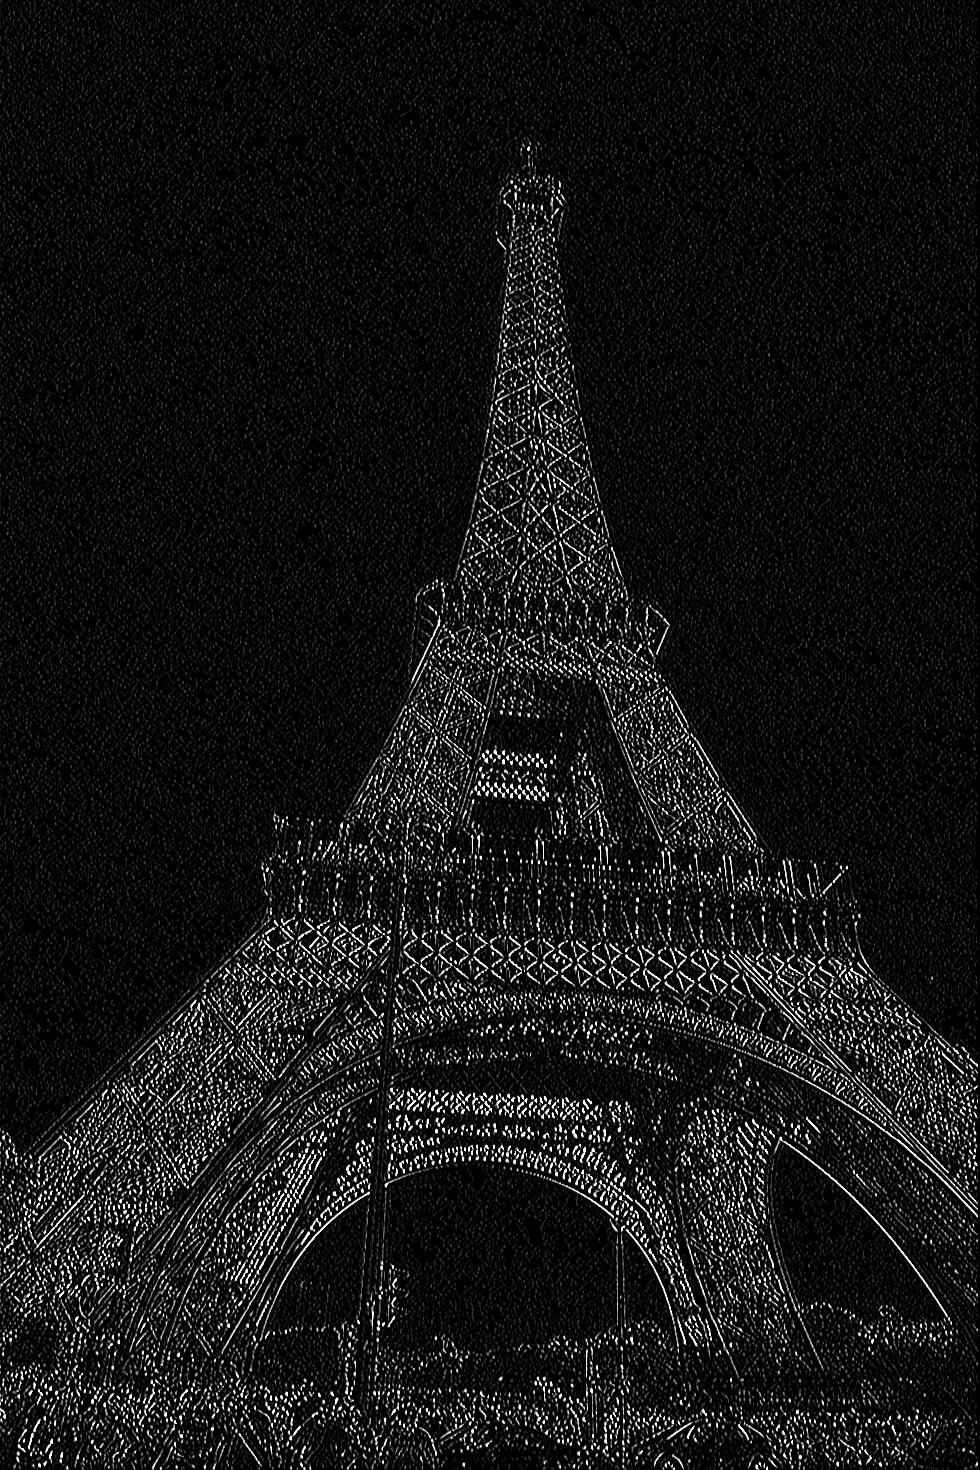
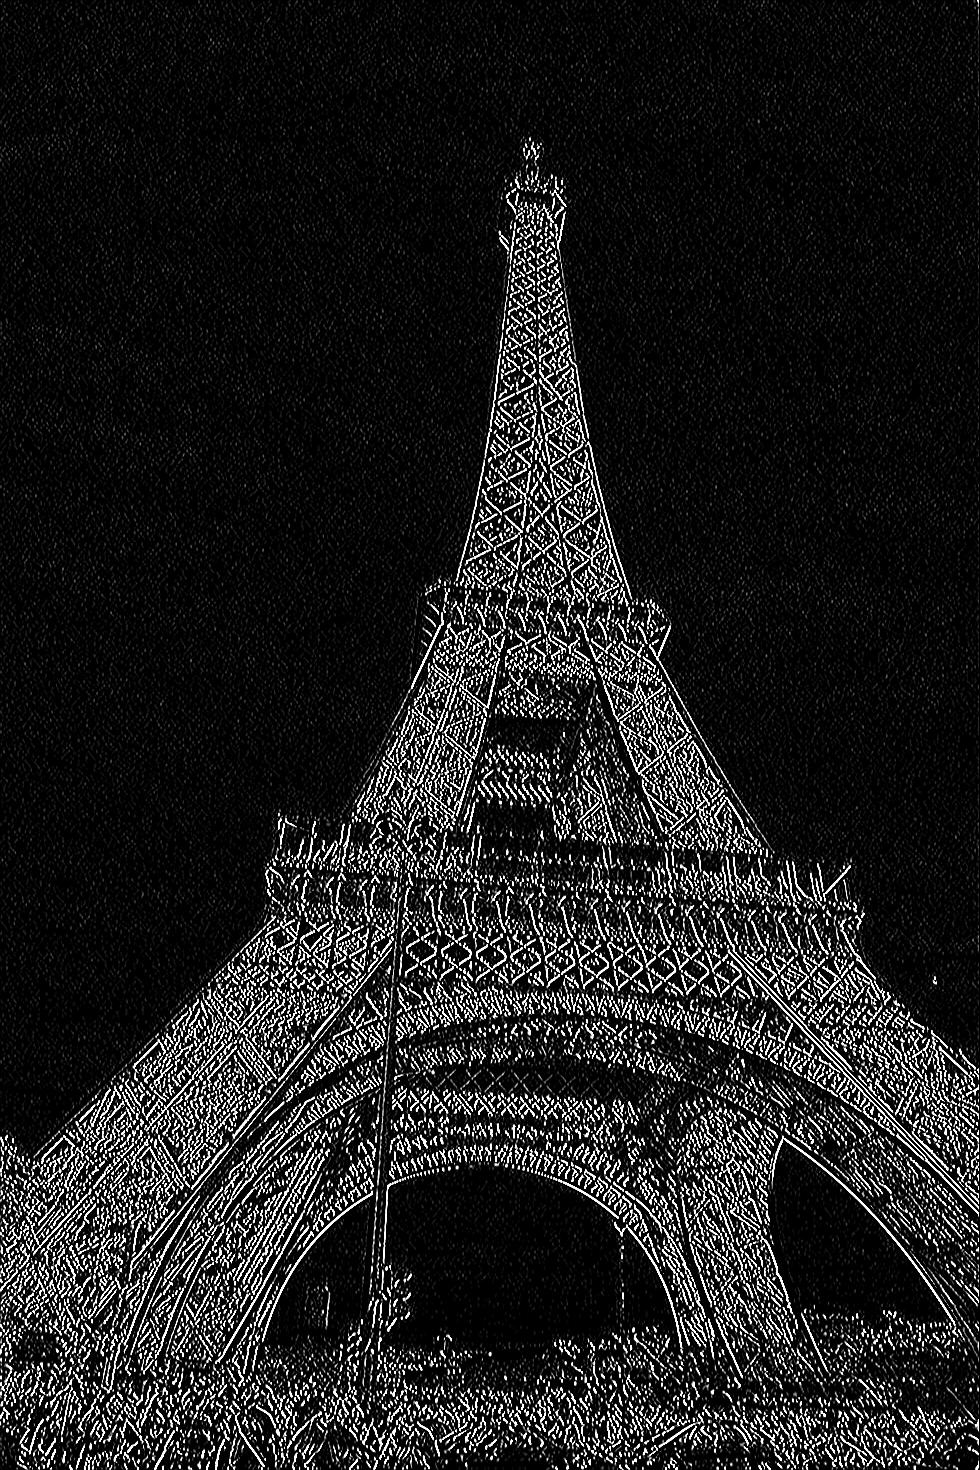
Correcion Tarea 1, Requerimentos según PDF

diff --git a/Lab_1/ventana.py b/Lab_1/ventana.py
@@ -1,0 +1,139 @@
+from Tkinter import *
+from PIL import Image, ImageTk
+from math import floor
+
+def ventana():
+    root = Tk()
+    root.title('Filtros')
+    frame = Frame()
+    frame.pack(padx=5,pady=5)
+    poner_imagen(obtener_original(path_imagen_original))
+    b1 = Button(text='Original', command = boton_original).pack(in_=frame, side=LEFT)
+    b2 = Button(text='Grises', command = boton_grises).pack(in_=frame, side=LEFT)
+    b3 = Button(text='Promedio', command = boton_promedio).pack(in_=frame, side=LEFT)
+    b4 = Button(text='Diferencia').pack(in_=frame, side=LEFT)
+    b5 = Button(text='Gaussian').pack(in_=frame, side=LEFT)
+    b6 = Button(text='Umbral', command = boton_umbral).pack(in_=frame, side=LEFT)
+    root.mainloop()
+
+def poner_imagen(image):
+    photo = ImageTk.PhotoImage(image)
+    global label
+    label = Label(image=photo)
+    label.imagen = photo
+    label.pack()
+
+def cambiar_agrises(path_original):
+    imagen = Image.open(path_imagen_original).convert("RGB")
+    pixeles = imagen.load()
+    x, y = imagen.size
+
+    imagen_nueva = Image.new("RGB", (x, y))
+
+    colores = []
+    for a in range(x):
+        for b in range(y):
+            pixel_color = pixeles[a, b]
+            promedio = sum(pixel_color)/3
+            tupla_promedio = (promedio, promedio, promedio)
+            colores.append(tupla_promedio)
+            imagen_nueva.putpixel((a, b), tupla_promedio)
+
+    return imagen_nueva
+
+def cambiar_promedio(imagen):
+    pixeles = imagen.load()
+    x, y = imagen.size
+    imagen_nueva_prom = Image.new("RGB", (x, y))
+
+    colores = []
+    for a in range(x):
+        for b in range(y):
+            pixel_color = pixeles[a, b]
+            veces = 5
+            suma = 0
+            promedio = 0
+
+            try:
+                pixel_norte = pixeles[a-1,b]
+            except IndexError:
+                pixel_norte = (0, 0, 0)
+                veces = veces - 1
+            try:
+                pixel_sur = pixeles[a+1, b]
+            except IndexError:
+                pixel_sur = (0, 0, 0)
+                veces = veces - 1
+            try:
+                pixel_este = pixeles[a, b+1]
+            except IndexError:
+                pixel_este = (0, 0, 0)
+                veces = veces - 1
+            try:
+                pixel_oeste = pixeles[a, b-1]
+            except IndexError:
+                pixel_oeste = (0, 0, 0)
+                veces = veces - 1
+
+            Rojos_suma = pixel_norte[0] + pixel_sur[0] + pixel_este[0] + pixel_oeste[0] + pixel_color[0]
+            Verdes_suma = pixel_norte[1]+ pixel_sur[1] + pixel_este[1] + pixel_oeste[1] + pixel_color[1]
+            Azul_suma = pixel_norte[2]+ pixel_sur[2] + pixel_este[2] + pixel_oeste[2] + pixel_color[2]
+            
+            Rojo_prom = Rojos_suma/veces
+            Verdes_prom = Verdes_suma/veces
+            Azul_prom = Azul_suma/veces
+
+            tupla_promedio = (Rojo_prom, Verdes_prom, Azul_prom)
+            colores.append(tupla_promedio)
+            imagen_nueva_prom.putpixel((a, b), tupla_promedio)
+
+    return imagen_nueva_prom
+
+def cambiar_umbral(imagen, umbral_valor):
+    pixeles = imagen.load()
+    x, y = imagen.size
+    imagen_nueva = Image.new("RGB", (x, y))
+    
+    for a in range(x):
+        for b in range(y):
+            pixel_color = pixeles[a, b]
+            valor_canal = float(pixel_color[0])
+            color_nor = valor_canal/255.0
+            if(color_nor>=umbral_valor):
+                poner_pixel = 255
+            else:
+                poner_pixel = 0
+            tupla_pixel = (poner_pixel, poner_pixel, poner_pixel)
+            imagen_nueva.putpixel((a, b), tupla_pixel)
+
+    return imagen_nueva
+
+def obtener_original(path_imagen_original):
+    imagen = Image.open(path_imagen_original)
+    return imagen
+
+def boton_grises():
+    label.destroy()
+    imagen_grises = cambiar_agrises(path_imagen_original)
+    poner_imagen(imagen_grises)
+
+def boton_original():
+    label.destroy()
+    imagen_original = obtener_original(path_imagen_original)
+    poner_imagen(imagen_original)
+
+def boton_promedio():
+    label.destroy()
+    imagen_grises = cambiar_agrises(path_imagen_original)
+    imagen_prom = cambiar_promedio(imagen_grises.convert("RGB"))
+    poner_imagen(imagen_prom)
+
+def boton_umbral():
+    label.destroy()
+    umbral_valor = 0.8
+    imagen_grises = cambiar_agrises(path_imagen_original)
+    imagen_umb = cambiar_umbral(imagen_grises.convert("RGB"), umbral_valor)
+    poner_imagen(imagen_umb)
+    
+path_imagen_original = "paris.gif"
+ventana()

diff --git a/Lab_2/sal_pimienta.py b/Lab_2/sal_pimienta.py
@@ -6,13 +6,14 @@ import numpy
 
 def ventana():
     root = Tk()
-    root.title('Bordes')
+    root.title('Filtros')
     frame = Frame()
     frame.pack(padx=5,pady=5)
     poner_imagen(obtener_original(path_imagen_original))
     b1 = Button(text='Original', command = boton_original).pack(in_=frame, side=LEFT)
-    b2 = Button(text='Detectar bordes', command = boton_bordes).pack(in_=frame, side=LEFT)
-    b1 = Button(text='Prueba tiempo', command = boton_prueba).pack(in_=frame, side=LEFT)
+    b2 = Button(text='S&P', command = boton_bordes).pack(in_=frame, side=LEFT)
+    b3 = Button(text='Quitar S&P', command = boton_bordes).pack(in_=frame, side=LEFT)
+    b4 = Button(text='Bordes', command = boton_bordes).pack(in_=frame, side=LEFT)
     root.mainloop()
 
 def poner_imagen(image):
@@ -222,49 +223,32 @@ def obtener_original(path_imagen_original):
 def boton_bordes():
     inicio = time.time()
     label.destroy()
-    
-    #A grises
     imagen_grises = cambiar_agrises(path_imagen_original)
     imagen_grises.save("paso_1.jpg")
-    
-    #Aplico mascara Sobel a 0 grados
-    h = numpy.array([[-1,0,1],[-2,0,2],[-1,0,1]])
-    imagen_con = convolucion(imagen_grises, h)
-    imagen_con.save("paso_2.jpg")
-    
-    #Aplico mascara Sobel a 45 grados
-    h = numpy.array([[1,2,1],[0,0,0],[-1,-2,-1]])
-    imagen_con2 = convolucion(imagen_con, h)
-    imagen_con2.save("paso_3.jpg")
-    
-    #Aplico gradiente horizontal
+    imagen_prom1 = cambiar_promedio(imagen_grises.convert("RGB"))
+    imagen_prom1.save("paso_2.jpg")
+    imagen_prom2 = cambiar_promedio(imagen_prom1.convert("RGB"))
+    imagen_prom2.save("paso_3.jpg")
+    imagen_prom = diferencia(imagen_prom2.convert("RGB"))
+    imagen_prom.save("paso_4.jpg")
+    h = numpy.array([[-3,-3,5],[-3,0,5],[-3,-3,5]])
+    imagen_con = convolucion(imagen_prom, h)
+    imagen_con.save("paso_5.jpg")
     h_hori = numpy.array([[-1, -2, -1],[0, 0, 0], [1, 2, 1]])
+    imagen_con2 = convolucion(imagen_con, h_hori)
     imagen_con3 = convolucion(imagen_con2, h_hori)
-    imagen_con3.save("paso_4.jpg")
-    
-    #Aplico gradiente vertical
+    imagen_con3.save("paso_6.jpg")
     h_verti = numpy.array([[-1, 0, 1],[-2, 0, 2],[-1, 0, 1]])
     imagen_con4 = convolucion(imagen_con3, h_verti)
-    imagen_con4.save("paso_5.jpg")
-    
-    #Normalizo la imagen
-    imagen_nor = normalizacion(imagen_con3)
-    imagen_nor.save("paso_6.jpg")
-    
-    #Binarizo (umbral 0.5)
+    imagen_con4.save("paso_7.jpg")
+    imagen_nor = normalizacion(imagen_con4)
+    imagen_nor.save("paso_8.jpg")
     umbral_valor = 0.5
     imagen_bin = cambiar_umbral(imagen_nor.convert("RGB"), umbral_valor)
-    imagen_bin.save("paso_7.jpg")
-    
-    #Hace promedio
+    imagen_bin.save("paso_9.jpg")
     imagen_final1 = cambiar_promedio(imagen_bin.convert("RGB"))
-    imagen_final2 = cambiar_promedio(imagen_final1.convert("RGB"))
-    imagen_final2.save("paso_8.jpg")
-    
-    #Pone en ventana
-    poner_imagen(imagen_final2)
-    
-    #Tiempo
+    imagen_final1.save("paso_10.jpg")
+    poner_imagen(imagen_final1)
     fin = time.time()
     tiempo = fin - inicio
     print "Tiempo que trascurrio -> " + str(tiempo)
@@ -275,12 +259,5 @@ def boton_original():
     imagen_original = obtener_original(path_imagen_original)
     poner_imagen(imagen_original)
 
-def boton_prueba():
-    tiempo = 0.0
-    for i in range(30):
-        tiempo = tiempo + boton_bordes()
-    promedio = tiempo / 30.0
-    print "Tiempo promedio de " + path_imagen_original + " es = " + str(promedio)
-
-path_imagen_original = "fruta.jpg"
+path_imagen_original = "cerro.jpg"
 ventana()
